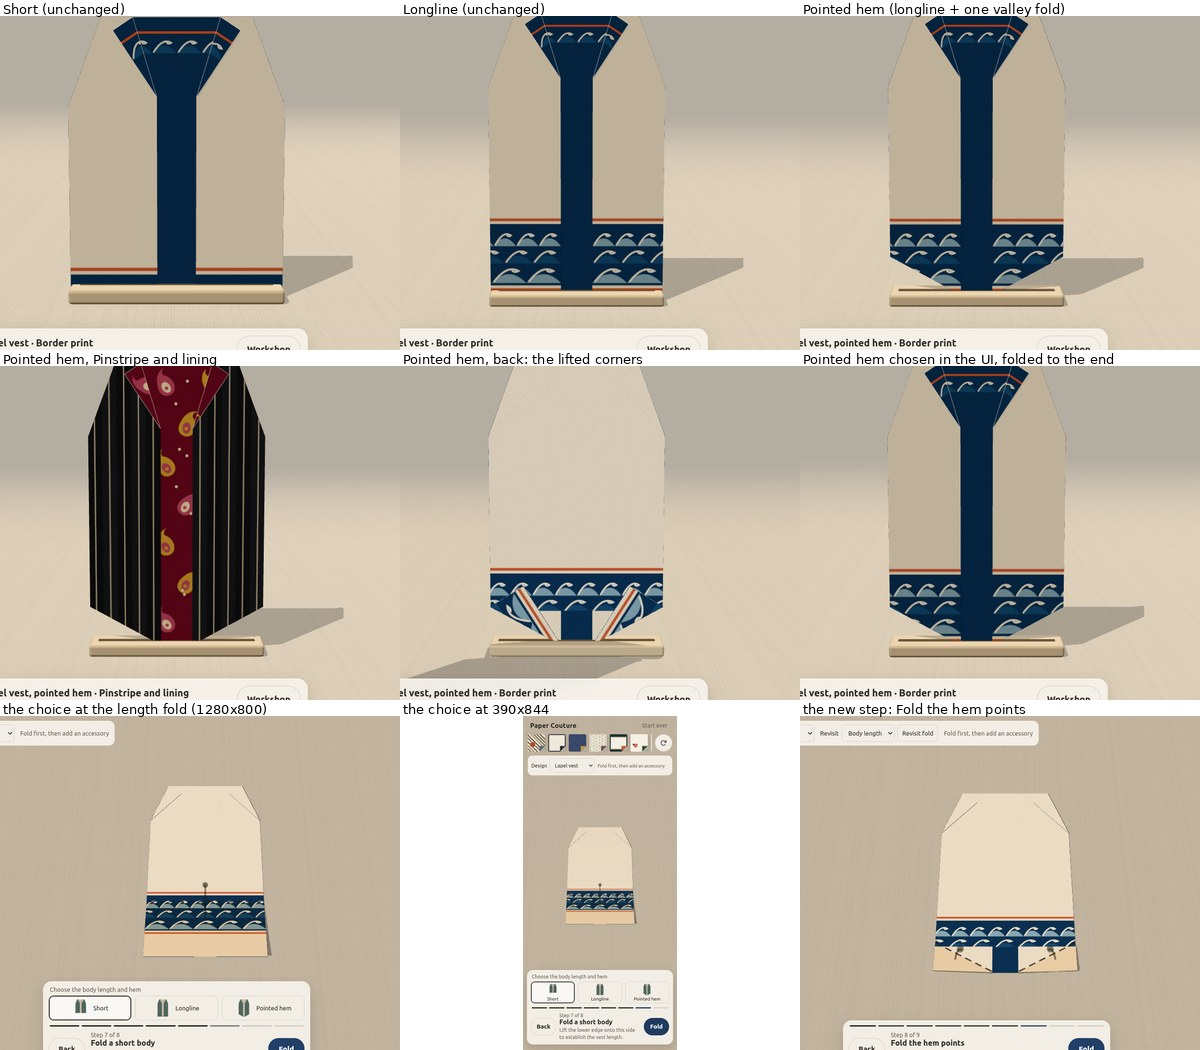
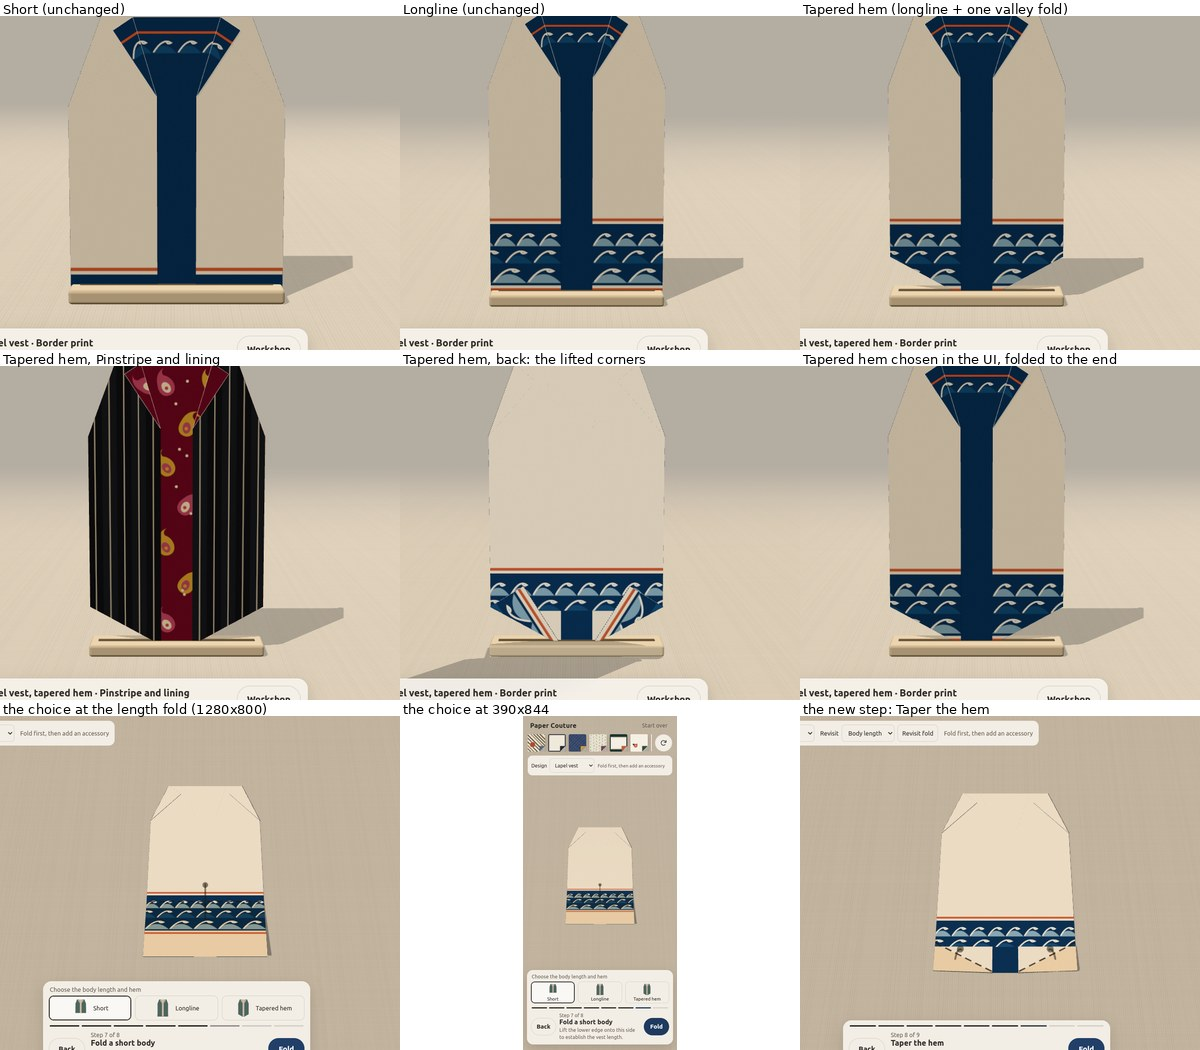
Notes and vest contact sheet for PR #15 (Astra's review of PR #14)

diff --git a/docs/geometry-collection/drafts/NOTES.md b/docs/geometry-collection/drafts/NOTES.md
@@ -5,7 +5,7 @@
 `drafts/papercouture-drafter-astra-followup` applies Astra's review of PR #11; see
 [Astra follow-up](#astra-follow-up). The exploration branch
 `drafts/papercouture-drafter-explore-13` (PR #13) is described in
-[PR #13 exploration](#pr-13-exploration), and PR #14 in [PR #14](#pr-14) at the end. Charles asked for these drafts. Nothing
+[PR #13 exploration](#pr-13-exploration), PR #14 in [PR #14](#pr-14), and PR #15 in [PR #15](#pr-15) at the end. Charles asked for these drafts. Nothing
 here is accepted until he reviews it in the browser. All of it uses the existing fold and turn
 ops, as valley folds with explicit turn-overs. There is no engine change, no painted fold, no
 slider and no new primitive. Every default stays at baseline parity.
@@ -26,7 +26,7 @@ papers below as a separate request, so they are included here as proposals.
 | Paper: Starlit lining (PR #13, reverse-first) | Passes checks, including placement checks for where the reverse lands |
 | Wrap skirt: short / classic / long (PR #13) | Passes checks. Classic matches PR #10 byte for byte |
 | Folded tulip (PR #13, waist anchors) | Passes checks. It shows one face only (the print) |
-| Lapel vest: Short / Longline / Pointed hem (PR #14) | Passes checks. Short and Longline match PR #13 byte for byte |
+| Lapel vest: Short / Longline / Tapered hem (PR #14; named "Pointed hem" until PR #15, id `pointed`) | Passes checks. Short and Longline match PR #13 byte for byte |
 | Paper: Compass lining (PR #14 experiment) | Hidden (URL `?paper=compass-lining` only). Passes the coverage experiment check |
 | Paper coverage report (PR #14) | `scripts/paperCoverage.ts`, report in `coverage/coverage.md` |
 
@@ -325,10 +325,16 @@ One issue comment on PR #13 (review of `81abb15`); no formal reviews and no inli
 | # | Item | Outcome | What I learned |
 | --- | --- | --- | --- |
 | Idea 1 | **Paper coverage report**: the landing map turned into a committed, reproducible report that flags garment fronts with no motif | **Kept** (a report plus a `--check` mode; not part of `npm test`, because it needs Chromium) | The papers are drawn by their own draw functions in headless Chromium (`scripts/paperRaster.ts`, bundled with esbuild), then mapped through `paperLanding.ts` at 128x128 samples. See "Coverage lessons" below |
-| Idea 2 | **Vest pointed hem**, as a third choice of the vest-length decision: Short / Longline / **Pointed hem** | **Kept** | Pointed is the longline body plus one extra valley fold (`vest-hem-points`, right after `vest-shorten`). The fold lifts each lower outer corner along a crease from the side (rise 0.25) down to near the front opening (run 0.45). The hem then falls to two points beside the reveal, like a waistcoat. All tested rise/run pairs pass the gates for both lengths (hinge 0.0385). Putting it inside the length decision avoided #13's "one decision per fold" problem. `check-collection` passes: 31 constructions, 172 transitions, 414 attachment placements with 0 outside the paper, so the tulip and pin waist anchors still fit. Short and Longline are unchanged (fingerprints asserted) |
-| Experiment | **Compass lining**: can a reverse-first paper keep Starlit's placement at *every* turn? Draw the reverse with four-fold rotational symmetry (one quarter drawn four times, rotated 90°; trims mitred at the corners; four-point sparkles, which are symmetric themselves) | **Confirmed; kept as a hidden paper** (`?paper=compass-lining`, not in the swatch row) | A turn rotates both canvases about the sheet centre, so a symmetric reverse lands identically at every turn: the report measures exactly the same drawing at 0/90/180/270°. At 0° it keeps Starlit's front motif (dress 0.031 against 0.031, jacket 0.051/0.051, vest 0.029/0.027, pleats 0.031/0.031) and triples it on the wrap skirt (0.059 against 0.019). Starlit's worst turns fall to 0.003-0.004 on the dress, jacket and pleats. The costs: the reverse is busier (four crescents; the dress back shows all four, the skirt front up to three), and first attempts with plain crossing trims made plaid-like corners on the sleeves and skirt sides, which mitring fixed. The capture share of the reverse ink drops from 0.33 to 0.16, but only because more ink is drawn, so that number does not rank these two |
+| Idea 2 | **Vest pointed hem**, as a third choice of the vest-length decision: Short / Longline / **Pointed hem** | **Kept** | Pointed is the longline body plus one extra valley fold (`vest-hem-points`, right after `vest-shorten`). The fold lifts each lower outer corner along a crease from the side (rise 0.25) down to near the front opening (run 0.45). The hem then falls to two points beside the reveal, like a waistcoat. (PR #15: the backing joins the low tips, so it reads as a tapered, blunt V; the choice is now named **Tapered hem**.) All tested rise/run pairs pass the gates for both lengths (hinge 0.0385). Putting it inside the length decision avoided #13's "one decision per fold" problem. `check-collection` passes: 31 constructions, 172 transitions, 414 attachment placements with 0 outside the paper, so the tulip and pin waist anchors still fit. Short and Longline are unchanged (fingerprints asserted) |
+| Experiment | **Compass lining**: can a reverse-first paper keep Starlit's placement at *every* turn? Draw the reverse with four-fold rotational symmetry (one quarter drawn four times, rotated 90°; trims mitred at the corners; four-point sparkles, which are symmetric themselves) | **Confirmed; kept as a hidden paper** (`?paper=compass-lining`, not in the swatch row) | A turn rotates both canvases about the sheet centre, so a symmetric reverse lands identically at every turn: the report measures exactly the same drawing at 0/90/180/270°. (PR #15: equal totals alone do not prove this, so the check now compares ink per sample as well.) At 0° it keeps Starlit's front motif (dress 0.031 against 0.031, jacket 0.051/0.051, vest 0.029/0.027, pleats 0.031/0.031) and triples it on the wrap skirt (0.059 against 0.019). Starlit's worst turns fall to 0.003-0.004 on the dress, jacket and pleats. The costs: the reverse is busier (four crescents; the dress back shows all four, the skirt front up to three), and first attempts with plain crossing trims made plaid-like corners on the sleeves and skirt sides, which mitring fixed. The capture share of the reverse ink drops from 0.33 to 0.16, but only because more ink is drawn, so that number does not rank these two |
 
 ### Coverage lessons (idea 1)
+
+> **Corrected in PR #15** (Astra's review of PR #14): "no motif" below should read **low
+> visible ink (< 0.5%)**. It is a measurement, not a guarantee that nothing shows: Plum
+> scatter on the classic skirt at 270° keeps two small petal marks at 0.00498. The report
+> covers each garment's **default shape** only. The set constant is now `KNOWN_LOW_INK`. The
+> Compass claim is now checked per sample, not only in total.
 
 - **A "plain front" test is vacuous.** Every garment shows both faces (collars, lapels, the
   skirt's wrap), so the smallest share of any front that differs from its main colour is 0.13.
@@ -394,6 +400,61 @@ Safari or physical paper): `npm run typecheck`, `npm test`, `node --import tsx s
    point?
 4. Should `paperCoverage.ts --check` run in CI? It needs Playwright's Chromium, like the
    browser review.
-5. Midnight orchard and Plum scatter show no motif on the vest (and Plum scatter on the wrap
+5. (PR #15: read "low visible ink" for "no motif"; see [PR #15](#pr-15).) Midnight orchard and Plum scatter show no motif on the vest (and Plum scatter on the wrap
    skirt) at any turn. Is that acceptable for single-motif papers, or should they be adjusted
    in a later round?
+
+## PR #15
+
+Branch `drafts/papercouture-drafter-15`, taken from PR #14's head `8015d59`, targeting
+`feature/geometry-collection-20260930`. It is stacked like #11-#14, so GitHub's diff is
+cumulative; this PR's own commits are `8015d59...` the #15 head. This round applies Astra's
+review of PR #14. There is no engine change, no new fold primitive, no painted fold, no
+slider and no progression system.
+
+**No new ideas this round.** Charles allowed one if it was genuinely strong. I did not have one
+in the proven areas (landing-map papers, small safe choices, accessories on their own
+square) strong enough to justify the extra review, so none was added.
+
+### Astra's review of PR #14
+
+One issue comment on PR #14 (review of `8015d59`); no formal reviews and no inline comments.
+
+| Astra point | Status | What changed |
+| --- | --- | --- |
+| Keep the start-up framing fix, the normal-projection wording, the committed ink helper, the softened "best turn" claim, the tulip step wording, the draft wording and the vest body choice | Kept, no change | - |
+| **P3:** the Display entry endpoint depends on frame timing. The unmodified harness failed (classic skirt entry 4.1874 against 4.1937 default); also present in PR #13. `view.update()` reaches the endpoint before `placePiece()`, whose camera branch skips `inDisplay`. Apply the final pose when the transition completes | **Addressed** | `src/main.ts`: when the view reports that Display is reached, the camera is set to the Display pose (`stage.placeCamera(displayCamPos, target)`) before orbit is enabled, so the end of the tween no longer depends on the last frame's progress. And if the fit changes during the transition (a resize), the Display pose is scaled with it, as `reframe` already does once in Display. Probe before the fix: entry minus default -0.0065 / -0.0008 / -0.0065 on three skirt entries, up to -0.032 on the dress. After: 0 (float noise, about 1e-15) over three round trips for the short, classic and long skirts, the dress and the tapered vest |
+| Acceptance: repeated entry, fresh URL and Reset agree across lengths and resizes, and the harness passes **without widening the tolerance** | **Addressed** (tolerance tightened) | `scripts/check-drafts-review.cjs` now enters Display from the workshop three times per construction and compares each entry, the fresh URL and Reset view at 1e-9 relative (was 1e-3), and prints 6 decimals. It passes: for example, classic skirt fresh 4.193719 = reset 4.193719 = entry x3 4.193719; at 390x844, 7.591948 = 7.591948. Control: the same harness fails on PR #14's `src/main.ts` (short skirt, second workshop entry: camera 3.508320 against default 3.502599; the first entry happened to pass, which is the frame dependence) |
+| **P3:** "no motif" is wrong where a small mark survives (Plum scatter, wrap skirt, 270°: two petal marks, 0.00498). Call it "low visible ink (<0.5%)", and say the report covers default garment shapes only (Midnight orchard on the short skirt stays under the threshold at every turn, max 0.00189) | **Addressed** | `scripts/paperCoverage.ts` and `coverage/coverage.md`: the flag is now **low visible ink (< 0.5%)**, described as a measurement, not "no motif", with Astra's Plum example. The report states that it measures the default shape of each garment only, lists those defaults, and gives the Midnight short-skirt example. The `--check` names and messages match. The numbers are unchanged (`coverage.json` is byte-identical). The PR #14 notes above carry a correction |
+| Add variant rows only if exhaustive coverage is intended | **Declined** (for now) | Exhaustive coverage is not the aim: the report is a diagnostic for the default shapes, and the scope is now stated. Adding variants would multiply the rows (lengths, pleat depths, cuffs, hems) without a decision that needs them. Easy to add later if Charles wants it |
+| Equal ink totals do not prove spatial identity (Compass) | **Addressed** | `paperCoverage.ts --check` now compares Compass's ink **per sample** across the four turns and fails if more than 0.1% of the visible samples change. Result: dress, jacket, vest and pleats 0.00%, wrap skirt 0.03% |
+| Keep Compass hidden; its catalogue status is Charles's call | Kept hidden | Still `?paper=compass-lining` only |
+| Keep Pinstripe, Border and the calmer Starlit, with a brief 0° / Back-view cue | **Partly addressed**; the rest deferred to Charles | Starlit's swatch tooltip now reads "Dove front, night-sky reverse; set for 0°. Try the Back view" (the only change; within the 60-character limit). A visible cue in the panel is a UI addition that depends on Charles cataloguing Starlit, so it was not added |
+| Optional rename: "Tapered hem", since the hem reads as a tapered, blunt V | **Addressed** | The choice button, construction name ("Lapel vest, tapered hem"), step title ("Taper the hem"), hint and checks now say tapered. The ids stay `pointed` and `vest-hem-points`, so `?vestLength=pointed` URLs keep working |
+| The quiet Midnight / Plum results and the parked dress length can stay | Kept, no change | - |
+| Keep coverage opt-in; CI adoption is the owner's choice | Kept opt-in | Deferred to Charles |
+| Validation: all passed except the author harness stopping at framing; no CI entries | Noted | The harness now passes with the stricter tolerance. All results are local runs, not CI |
+
+### Checks
+
+Run on this branch (Node 24.21, headless Chromium with software WebGL; no real phone, Safari
+or physical paper): `npm run typecheck`, `npm test` (31 constructions, 172 transitions, 414
+attachment placements, 0 outside), `node --import tsx scripts/check-drafts.ts`,
+`scripts/paperCoverage.ts --check` (27 low-ink cells at some turn, 3 at every turn; Compass
+per-sample check as above), `npm run build -- --base /play/paper-couture/` and
+`scripts/check-drafts-review.cjs`. All passed.
+
+Updated contact sheet: `vest-pointed-hem.jpg` (same file name; relabelled Tapered hem and
+re-shot with the new step title). `display-framing.jpg` and `compass-lining.jpg` are
+unchanged: the framing fix changes the entry distance by about 0.03 at most, which does not
+show in a screenshot, and nothing about Compass's drawing changed.
+
+### Open questions after PR #15
+
+1. Is **Tapered hem** the right name (ids kept as `pointed`)?
+2. Starlit: is the tooltip cue enough, or do you want a visible 0° / Back-view cue in the
+   panel if Starlit is catalogued?
+3. Compass: keep hidden, offer it, or swap it for Starlit?
+4. Should `paperCoverage.ts --check` run in CI? It needs Playwright's Chromium.
+5. Should the coverage report also cover variant shapes (lengths, pleat depths, hems), or
+   stay on the defaults?
